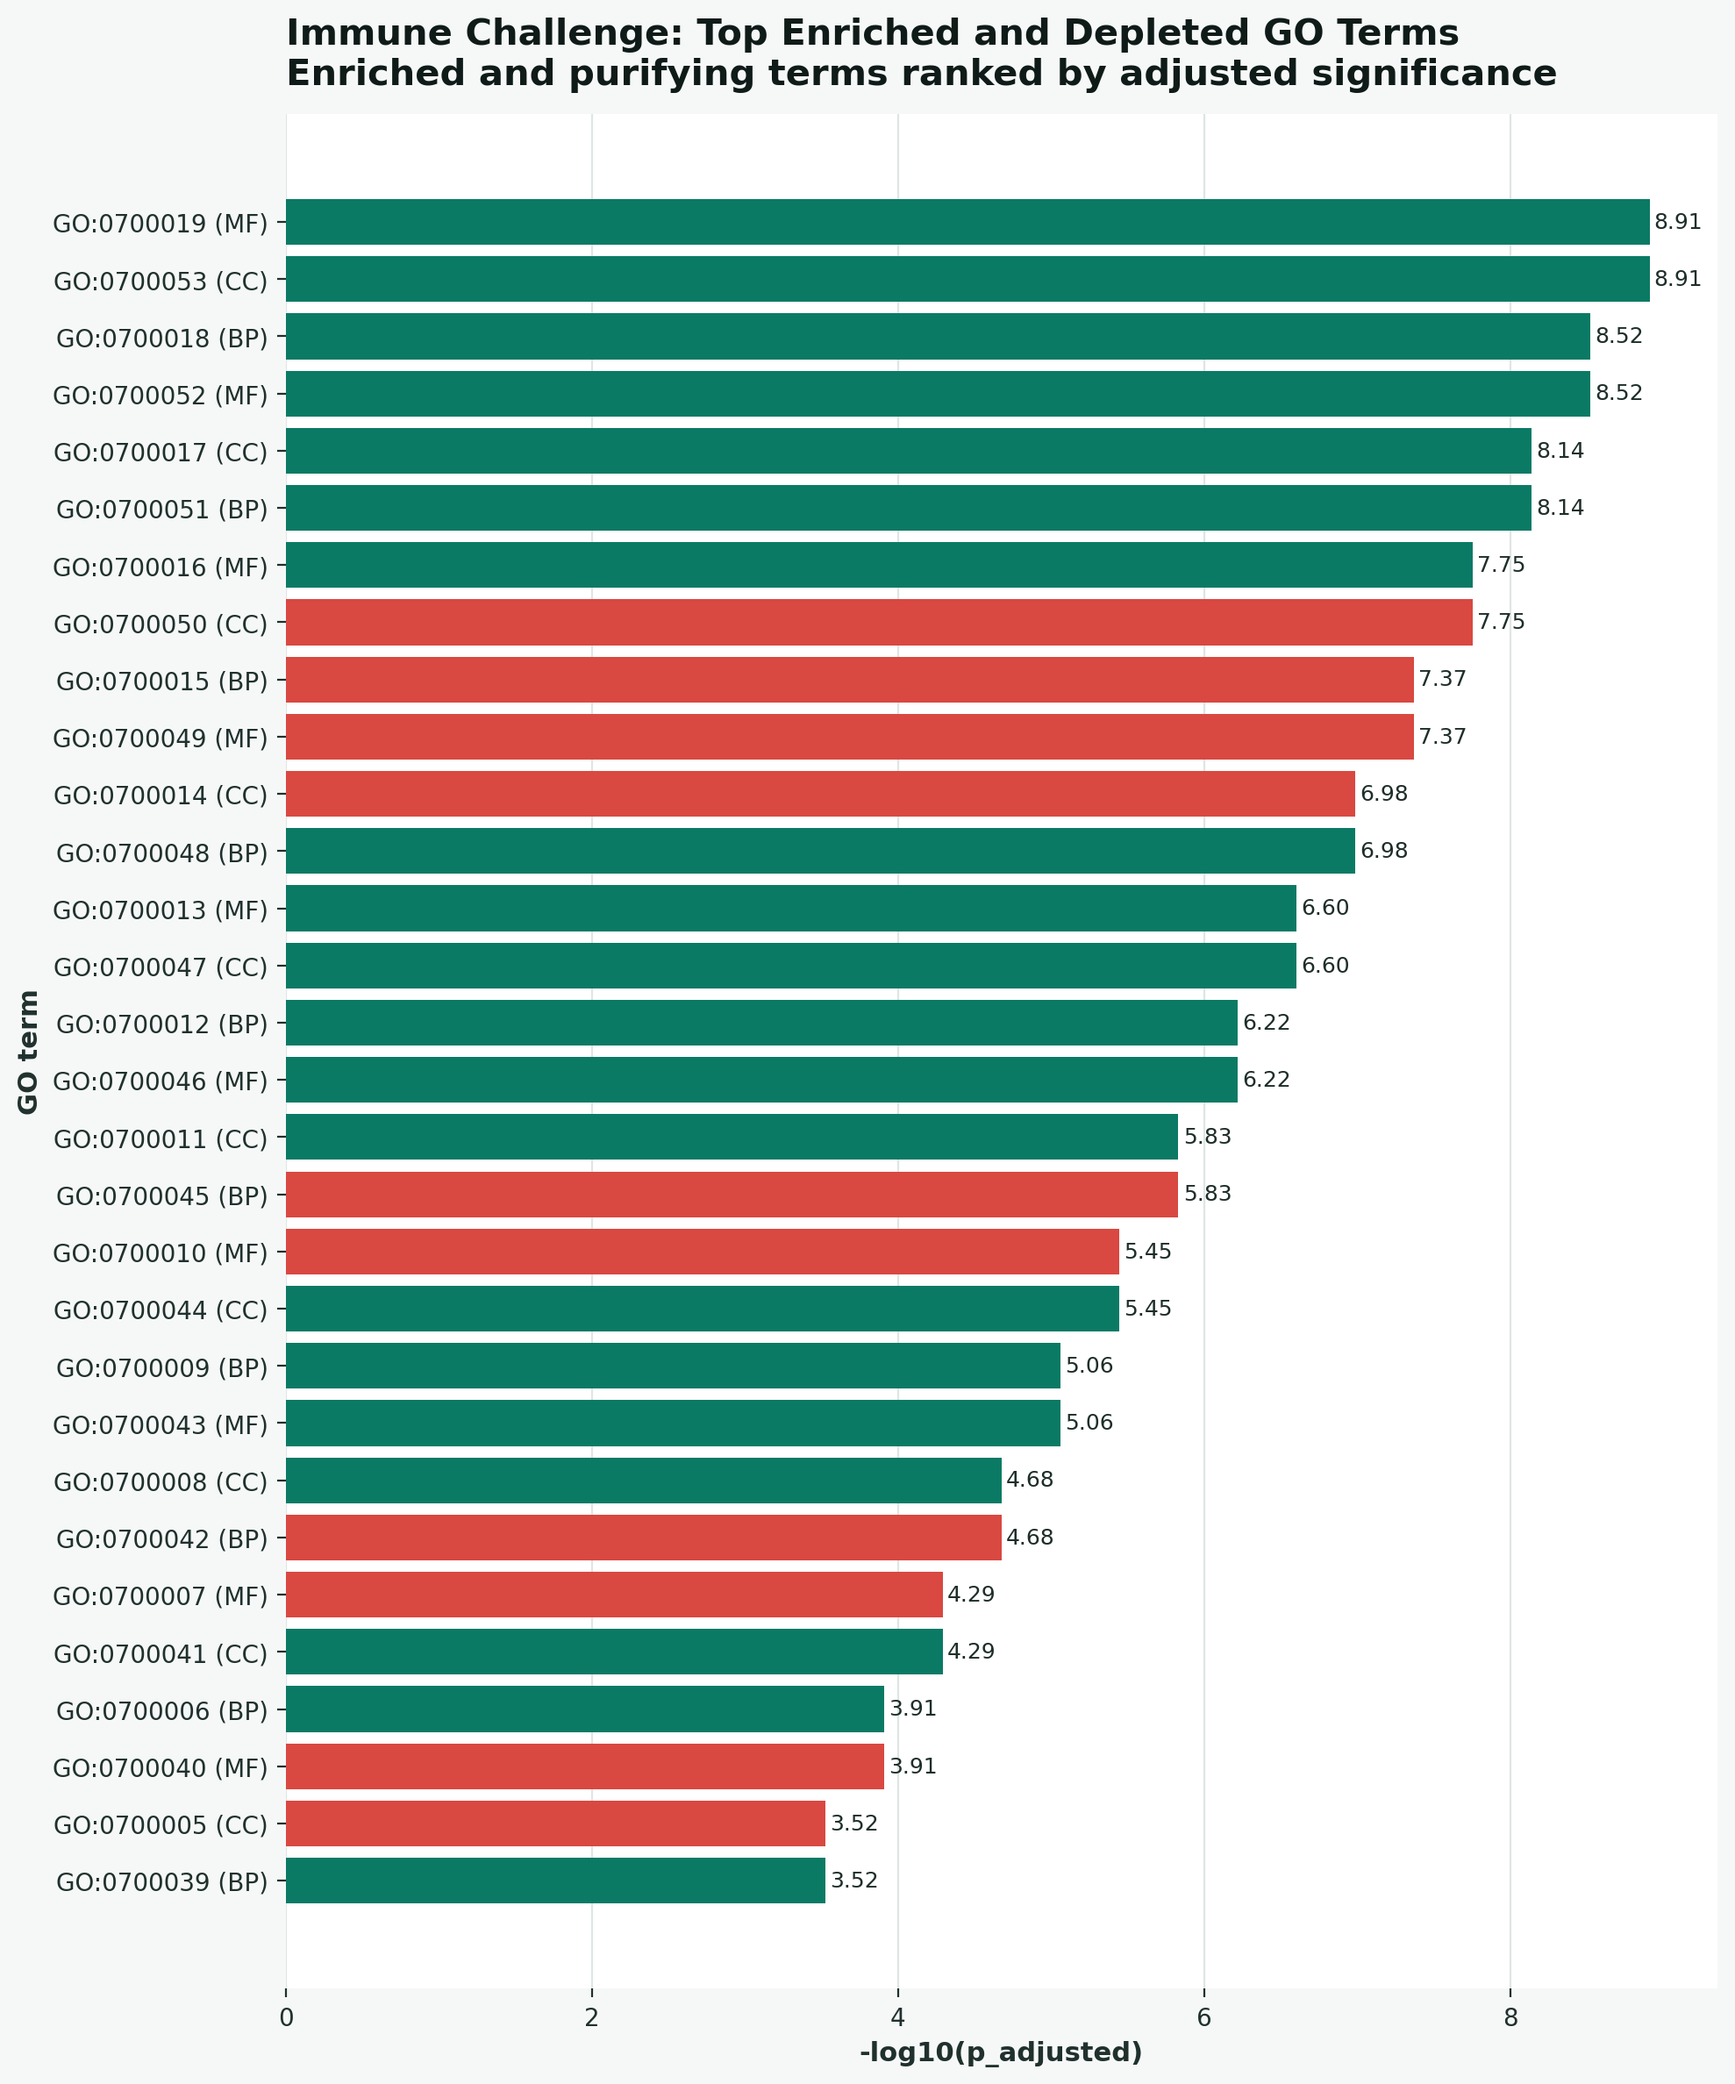
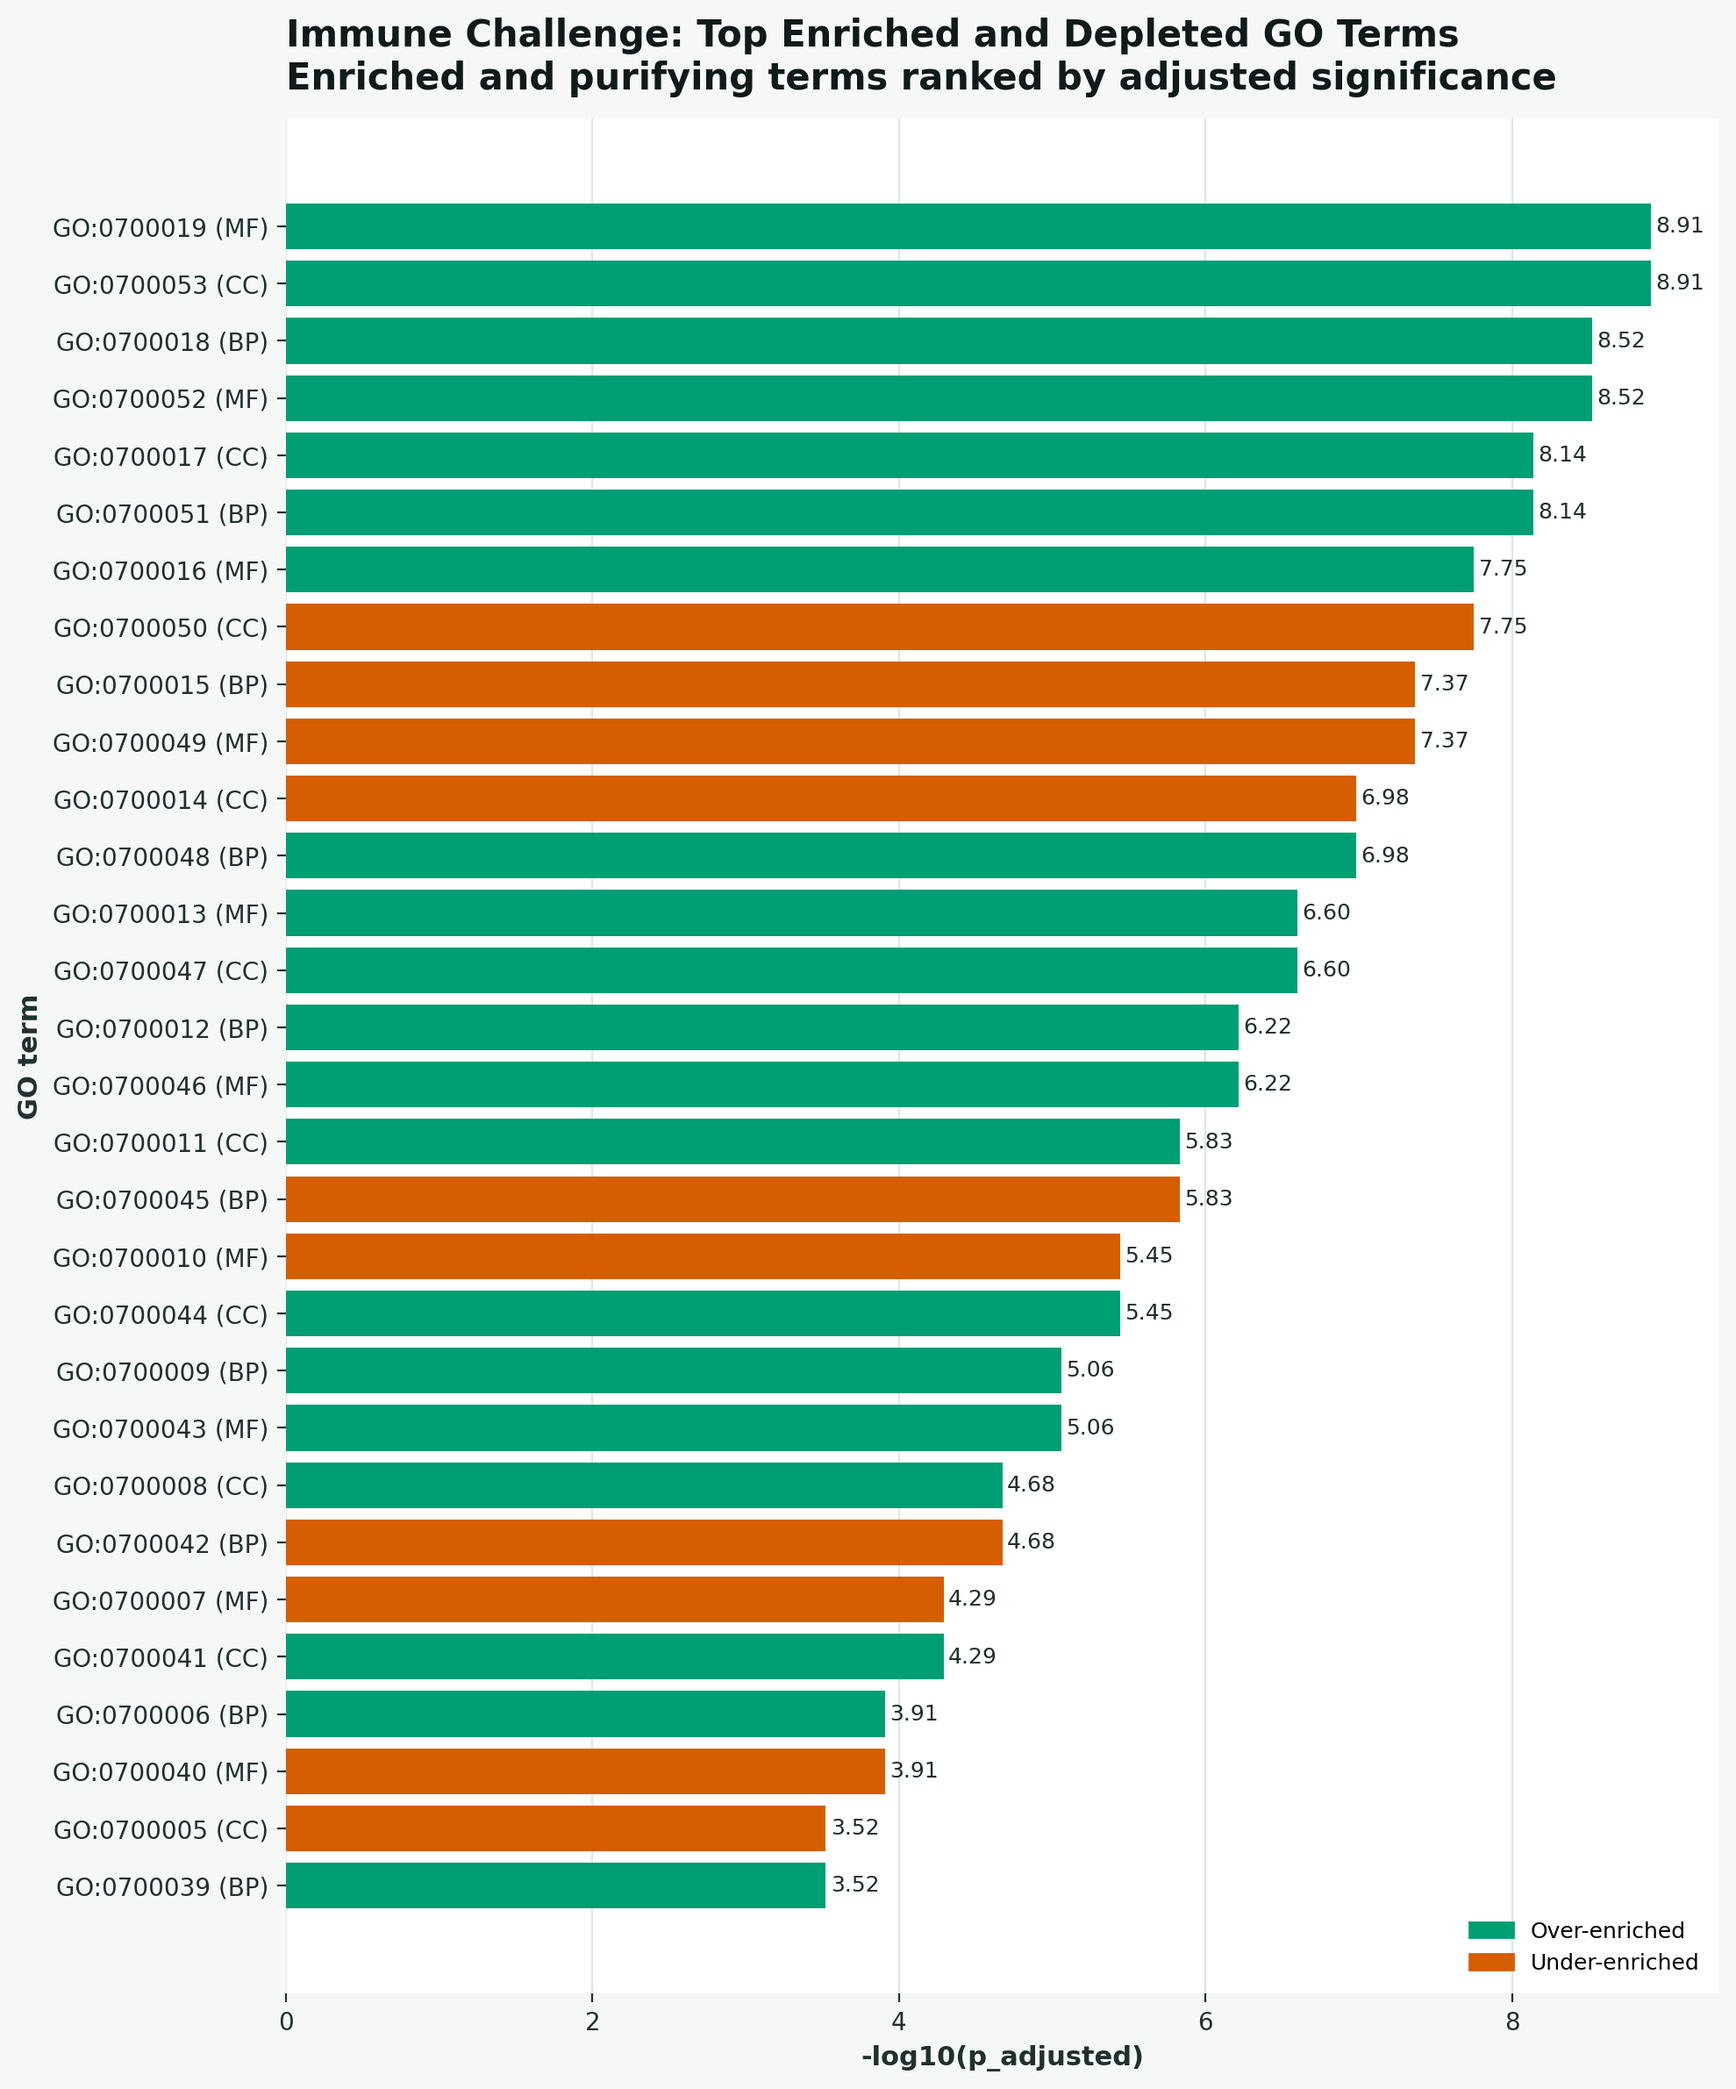
plot: add term-bar direction legend at bottom-right

diff --git a/src/gokit/report/figures.py b/src/gokit/report/figures.py
@@ -268,6 +268,13 @@ def render_term_bar(
     # Add value labels for rapid scan in announcement-style visuals.
     for yi, val in enumerate(values):
         ax.text(val + 0.03, yi, f"{val:.2f}", va="center", ha="left", fontsize=9, color=c["label"])
+    from matplotlib.patches import Patch
+
+    handles = [
+        Patch(color=c["over"], label="Over-enriched"),
+        Patch(color=c["under"], label="Under-enriched"),
+    ]
+    ax.legend(handles=handles, frameon=False, loc="lower right", fontsize=9)
     fig.tight_layout()
     out.parent.mkdir(parents=True, exist_ok=True)
     fig.savefig(out, dpi=200, bbox_inches="tight")
